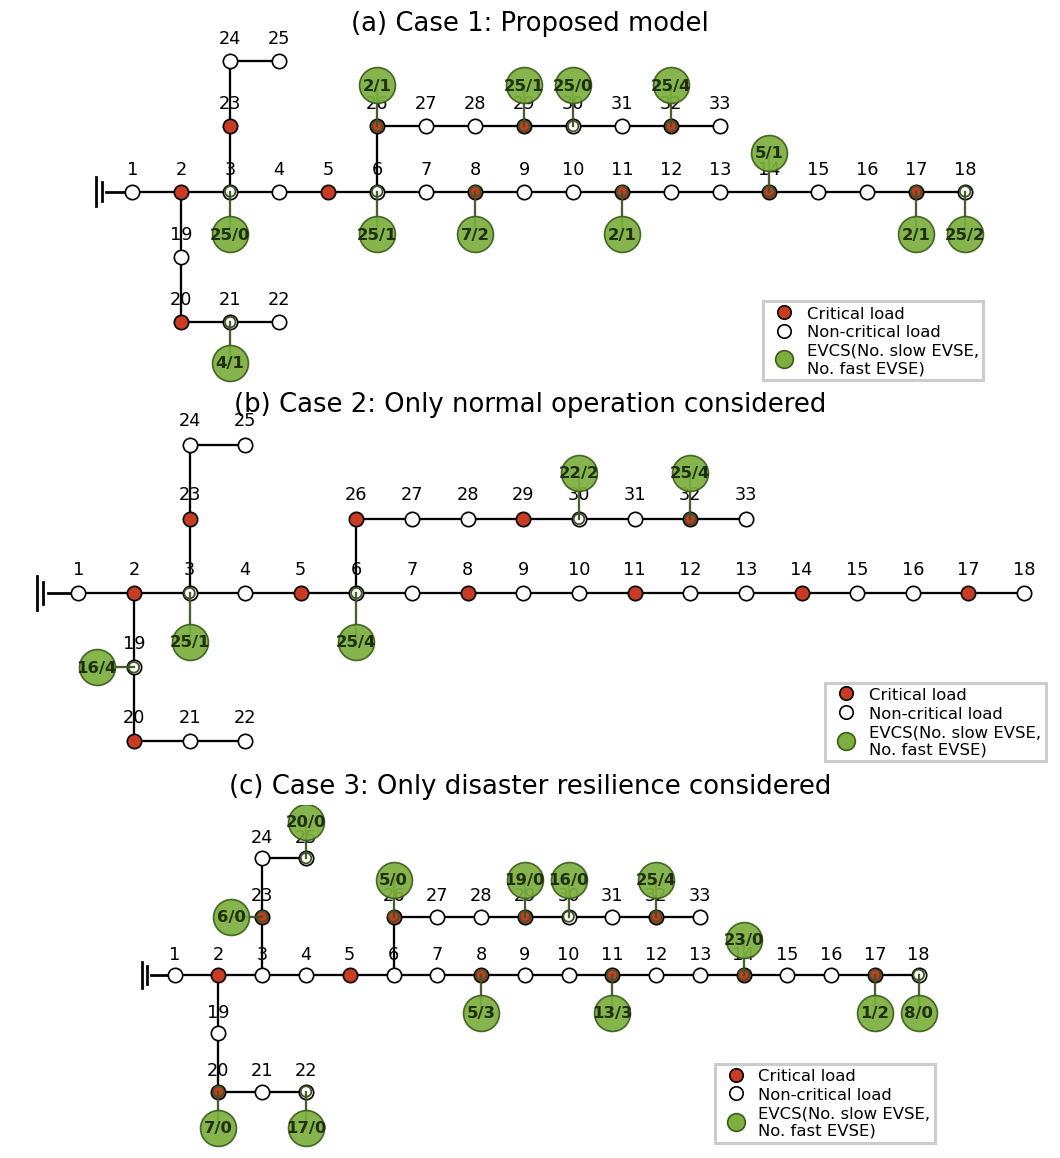
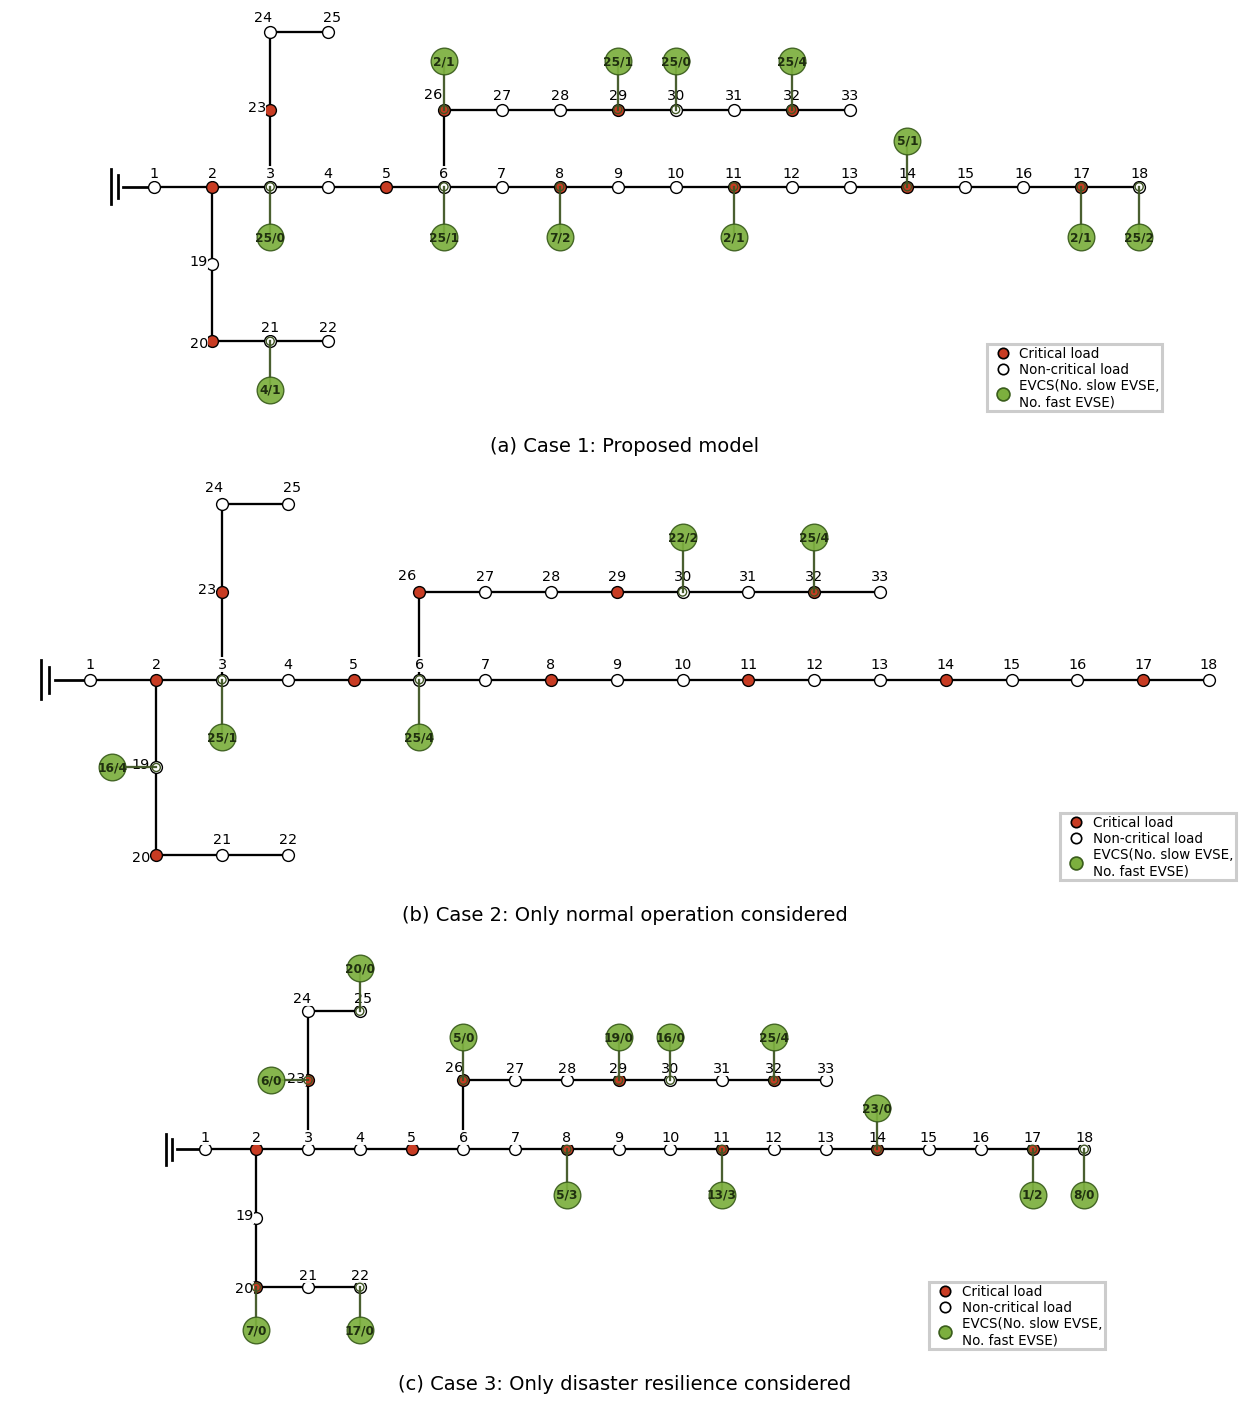
paper: fix topology label overlaps

Changed region(s): [[0.0311, 0.0, 0.9962, 0.9948]]

diff --git a/scripts/make_experiment_figures.py b/scripts/make_experiment_figures.py
@@ -150,6 +150,24 @@ IEEE33_BUBBLE_OFFSETS = {
     33: (0.0, 1.0),
 }
 
+IEEE33_LABEL_OFFSETS = {
+    19: (-0.28, 0.05),
+    20: (-0.28, -0.04),
+    21: (0.0, 0.28),
+    22: (0.0, 0.28),
+    23: (-0.28, 0.05),
+    24: (-0.14, 0.3),
+    25: (0.08, 0.3),
+    26: (-0.22, 0.3),
+    27: (0.0, 0.28),
+    28: (0.0, 0.28),
+    29: (0.0, 0.28),
+    30: (0.0, 0.28),
+    31: (0.0, 0.28),
+    32: (0.0, 0.28),
+    33: (0.0, 0.28),
+}
+
 PAPER_STYLE_PANEL_TITLES = {
     "integrated_mainline_paper_like": "(a) Case 1: Proposed model",
     "normal_only_paper_like": "(b) Case 2: Only normal operation considered",
@@ -190,10 +208,10 @@ def _plot_paper_style_panel(axis, run_id: str, plan_lookup: dict[str, Path]) -> 
     installed_rows = [
         row for row in plan_rows if int(row["is_open"]) == 1
     ]
+    panel_title = PAPER_STYLE_PANEL_TITLES.get(run_id, run_id)
 
     axis.set_aspect("equal")
     axis.axis("off")
-    axis.set_title(PAPER_STYLE_PANEL_TITLES.get(run_id, run_id), fontsize=8.5, pad=4)
 
     for left, right in IEEE33_EDGES:
         x1, y1 = IEEE33_POSITIONS[left]
@@ -211,33 +229,35 @@ def _plot_paper_style_panel(axis, run_id: str, plan_lookup: dict[str, Path]) -> 
         axis.scatter(
             critical_x,
             critical_y,
-            s=22,
+            s=15,
             facecolors="#c83c23",
             edgecolors="black",
-            linewidths=0.55,
+            linewidths=0.45,
             zorder=3,
         )
     if noncritical_x:
         axis.scatter(
             noncritical_x,
             noncritical_y,
-            s=22,
+            s=15,
             facecolors="white",
             edgecolors="black",
-            linewidths=0.55,
+            linewidths=0.45,
             zorder=2,
         )
 
     for bus in buses:
         x, y = IEEE33_POSITIONS[bus]
+        dx, dy = IEEE33_LABEL_OFFSETS.get(bus, (0.0, 0.28))
         axis.text(
-            x,
-            y + 0.33,
+            x + dx,
+            y + dy,
             str(bus),
             ha="center",
-            va="bottom",
-            fontsize=5.8,
+            va="center",
+            fontsize=4.7,
             zorder=4,
+            bbox={"facecolor": "white", "edgecolor": "none", "pad": 0.12, "alpha": 0.96},
         )
 
     bubble_points: list[tuple[float, float]] = []
@@ -259,19 +279,19 @@ def _plot_paper_style_panel(axis, run_id: str, plan_lookup: dict[str, Path]) -> 
         axis.scatter(
             [x],
             [y],
-            s=12,
+            s=7,
             facecolors="none",
             edgecolors="#3f5523",
-            linewidths=0.6,
+            linewidths=0.45,
             zorder=4.5,
         )
         axis.scatter(
             [bx],
             [by],
-            s=138,
+            s=76,
             facecolors="#7caf3e",
             edgecolors="#3a5d1c",
-            linewidths=0.55,
+            linewidths=0.45,
             alpha=0.92,
             zorder=5,
         )
@@ -282,7 +302,7 @@ def _plot_paper_style_panel(axis, run_id: str, plan_lookup: dict[str, Path]) -> 
             f"{slow}/{fast}",
             ha="center",
             va="center",
-            fontsize=5.4,
+            fontsize=4.0,
             fontweight="bold",
             color="#1f2f0f",
             zorder=6,
@@ -301,7 +321,7 @@ def _plot_paper_style_panel(axis, run_id: str, plan_lookup: dict[str, Path]) -> 
             markerfacecolor="#c83c23",
             markeredgecolor="black",
             markeredgewidth=0.55,
-            markersize=4.4,
+            markersize=3.4,
             label="Critical load",
         ),
         Line2D(
@@ -312,7 +332,7 @@ def _plot_paper_style_panel(axis, run_id: str, plan_lookup: dict[str, Path]) -> 
             markerfacecolor="white",
             markeredgecolor="black",
             markeredgewidth=0.55,
-            markersize=4.4,
+            markersize=3.4,
             label="Non-critical load",
         ),
         Line2D(
@@ -323,21 +343,31 @@ def _plot_paper_style_panel(axis, run_id: str, plan_lookup: dict[str, Path]) -> 
             markerfacecolor="#7caf3e",
             markeredgecolor="#3a5d1c",
             markeredgewidth=0.55,
-            markersize=5.8,
+            markersize=4.2,
             label="EVCS(No. slow EVSE,\nNo. fast EVSE)",
         ),
     ]
     axis.legend(
         handles=legend_handles,
         loc="lower right",
-        fontsize=5.4,
+        fontsize=4.4,
         frameon=True,
         fancybox=False,
         framealpha=1.0,
-        borderpad=0.28,
-        handletextpad=0.35,
-        labelspacing=0.22,
+        borderpad=0.2,
+        handletextpad=0.22,
+        labelspacing=0.14,
         borderaxespad=0.25,
+    )
+    axis.text(
+        0.5,
+        -0.055,
+        panel_title,
+        transform=axis.transAxes,
+        ha="center",
+        va="top",
+        fontsize=6.4,
+        clip_on=False,
     )
 
 
@@ -460,7 +490,7 @@ def _plot_plan_maps(
 
     nrows = (len(selected) + ncols - 1) // ncols
     if ncols == 1:
-        figsize = (7.2, 1.72 * nrows + 0.12)
+        figsize = (7.2, 2.08 * nrows + 0.2)
     else:
         figsize = (7.3, 2.1 * nrows)
     fig, axes = plt.subplots(
@@ -475,7 +505,7 @@ def _plot_plan_maps(
     for axis, run_id in zip(axes.flatten(), selected):
         _plot_paper_style_panel(axis, run_id, plan_lookup)
 
-    fig.tight_layout(rect=(0.005, 0.005, 0.995, 0.995), pad=0.22, h_pad=0.25)
+    fig.tight_layout(rect=(0.005, 0.012, 0.995, 0.995), pad=0.2, h_pad=0.9)
     fig.savefig(path, dpi=220, bbox_inches="tight", pad_inches=0.05)
     plt.close(fig)
 
